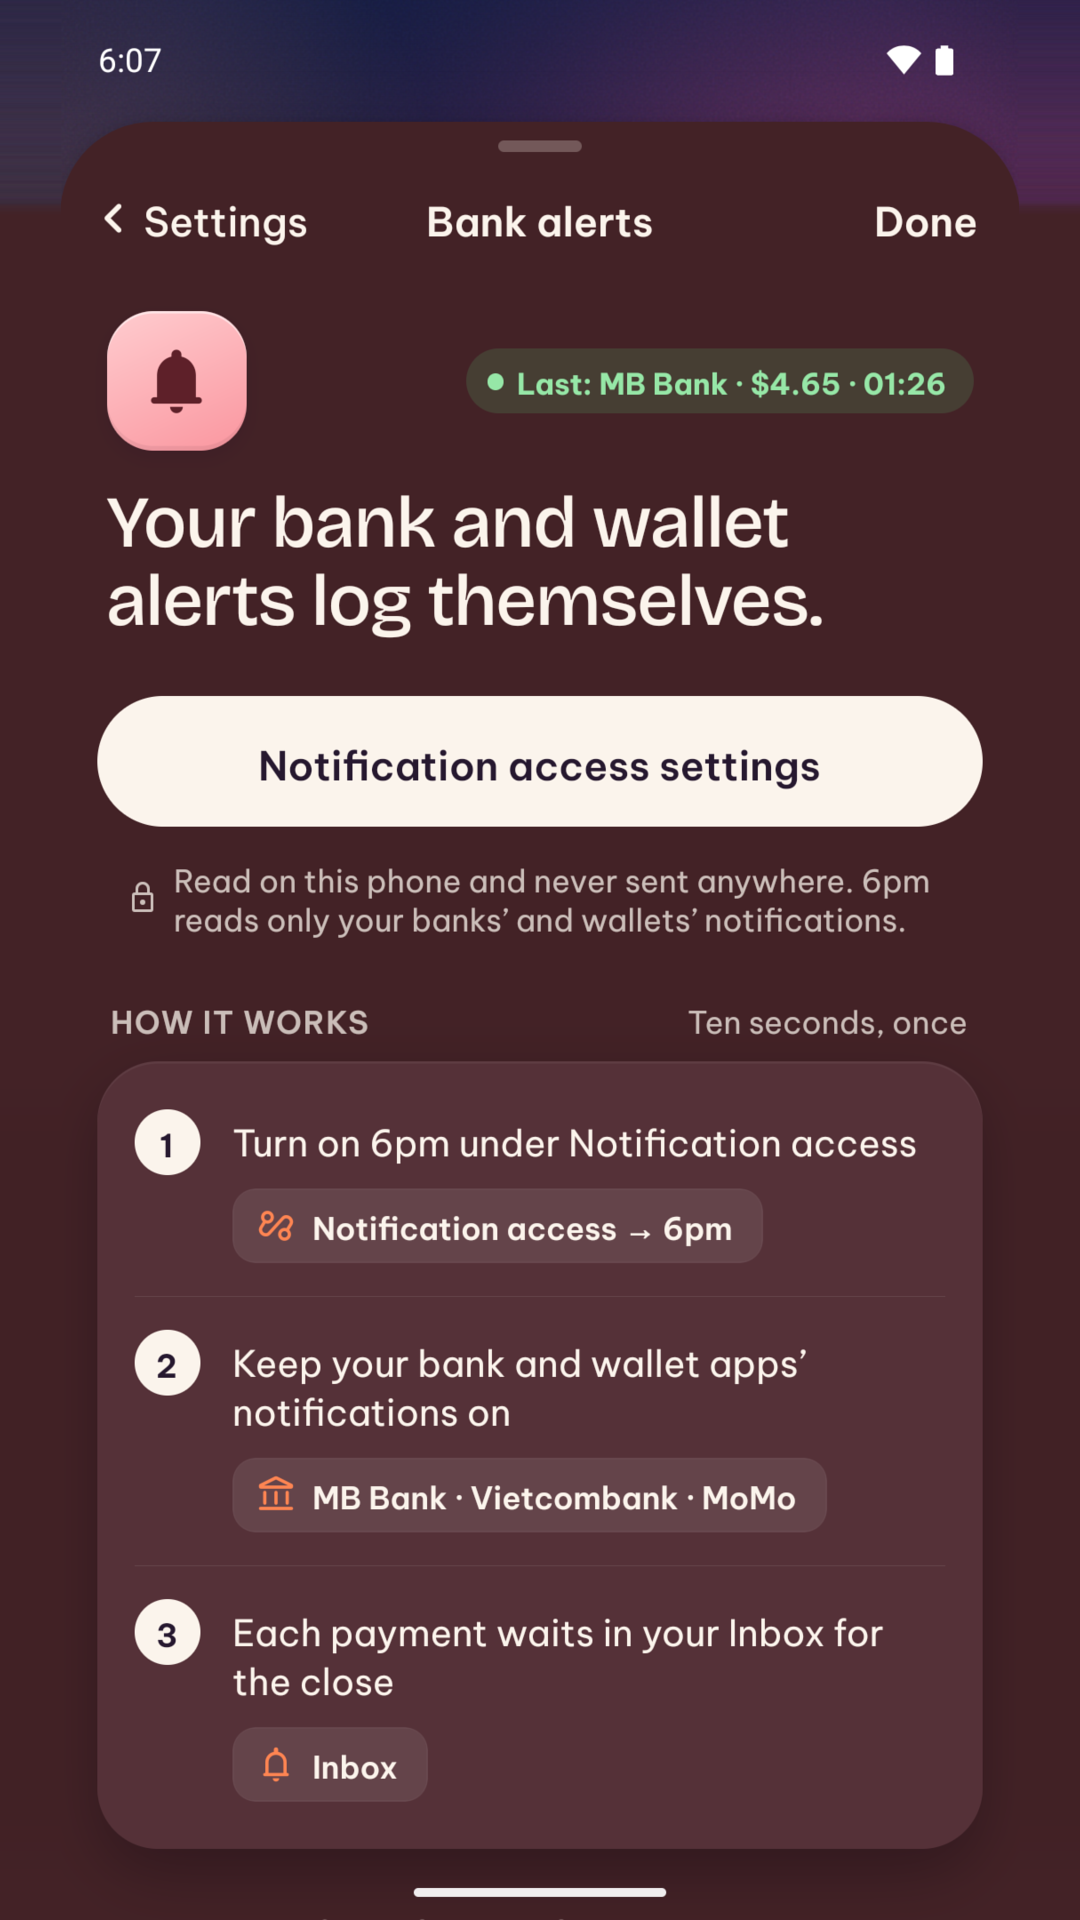
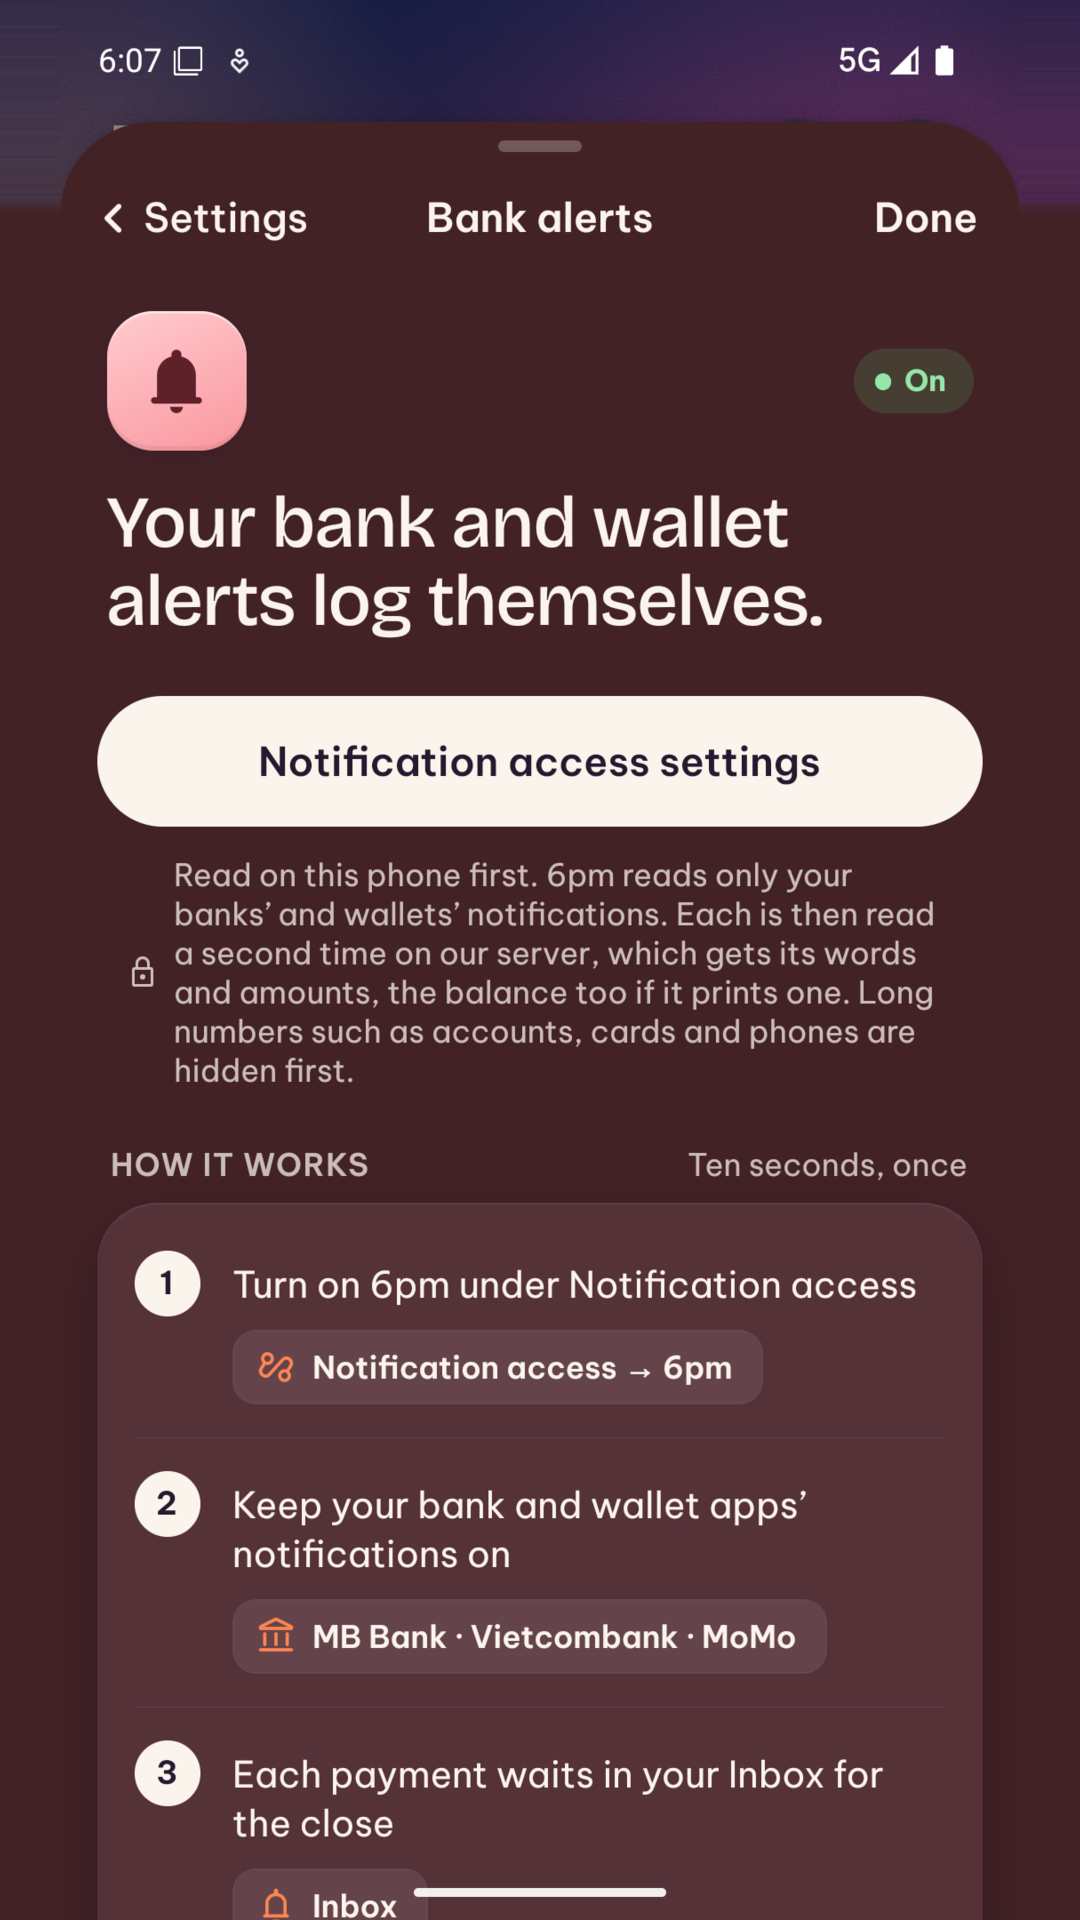
fix(android): Manage subscription opens Google Play; bank alert wording and its store screenshot (#604)
* fix(android): Manage subscription opens Google Play

RevenueCat's manage sheet is Apple's and its call throws on Android, so
the link on the Max sheet only said the store could not be reached. On
Android it opens the customer's subscription on Google Play.

* fix(android): bank alerts say where they are read, without an option Android lacks

Android has no model to keep on the phone, so its alert wording no longer
ends on what happens when AI is on the phone, in every language, and
onboarding's card drops the same clause. The Play listing's bank alerts
screenshot, which still said alerts were never sent anywhere, is retaken
from this wording in English and Vietnamese.

diff --git a/packages/i18n/src/th/android.ts b/packages/i18n/src/th/android.ts
@@ -81,7 +81,10 @@ export const thAndroid: { readonly [Key in keyof typeof enAndroid]: Entry } = {
   'capture.alerts.tip':
     'รหัส OTP การจ่ายที่ไม่สำเร็จ และโปรโมชันจะถูกข้าม รายการที่อีเมลจับได้แล้วจะไม่ถูกเพิ่มซ้ำ',
   'capture.alerts.privacy':
-    'อ่านบนเครื่องนี้ก่อน 6pm อ่านเฉพาะการแจ้งเตือนจากธนาคารและวอลเล็ตของคุณ จากนั้นเซิร์ฟเวอร์ของเราอ่านซ้ำอีกครั้ง โดยได้รับข้อความและจำนวนเงินในแจ้งเตือน รวมถึงยอดคงเหลือถ้ามีระบุไว้ เลขยาว ๆ เช่น เลขบัญชี เลขบัตร และเบอร์โทร จะถูกซ่อนก่อนส่ง ไม่ส่งเลยเมื่อ AI ทำงานบนเครื่อง',
+    'อ่านบนเครื่องนี้ก่อน 6pm อ่านเฉพาะการแจ้งเตือนจากธนาคารและวอลเล็ตของคุณ จากนั้นเซิร์ฟเวอร์ของเราอ่านซ้ำอีกครั้ง โดยได้รับข้อความและจำนวนเงินในแจ้งเตือน รวมถึงยอดคงเหลือถ้ามีระบุไว้ เลขยาว ๆ เช่น เลขบัญชี เลขบัตร และเบอร์โทร จะถูกซ่อนก่อนส่ง',
+  // Android has no model to keep on the phone, so the step's card does not offer that.
+  'onboarding.catch.alerts.body':
+    'แจ้งเตือนจากธนาคารและวอลเล็ตบันทึกเงินที่เคลื่อนไหวให้เอง อ่านบนเครื่องนี้ก่อน แล้วเซิร์ฟเวอร์ของเราอ่านซ้ำอีกครั้ง',
   'capture.alerts.actionAdd': 'อนุญาตการเข้าถึงการแจ้งเตือน',
   'capture.alerts.actionOpen': 'ตั้งค่าการเข้าถึงการแจ้งเตือน',
 

diff --git a/packages/i18n/src/ja/android.ts b/packages/i18n/src/ja/android.ts
@@ -90,7 +90,10 @@ export const jaAndroid: { readonly [Key in keyof typeof enAndroid]: Entry } = {
   'capture.alerts.tip':
     '認証コード、失敗した支払い、プロモーションはスキップします。メールでキャッチ済みの支払いは二重に追加されません。',
   'capture.alerts.privacy':
-    'まずこのスマホの中で読み取ります。6pmが読むのは銀行とウォレットの通知だけです。そのあとサーバーでもう一度読みます。送るのは通知の文面と金額で、残高が書かれていればそれも含みます。口座番号・カード番号・電話番号などの長い番号は先に伏せます。AIを端末内にしているときは送りません。',
+    'まずこのスマホの中で読み取ります。6pmが読むのは銀行とウォレットの通知だけです。そのあとサーバーでもう一度読みます。送るのは通知の文面と金額で、残高が書かれていればそれも含みます。口座番号・カード番号・電話番号などの長い番号は先に伏せます。',
+  // Android has no model to keep on the phone, so the step's card does not offer that.
+  'onboarding.catch.alerts.body':
+    '銀行やウォレットの通知から、動いたお金を記録します。このスマホの中で読み取り、そのあとサーバーでもう一度読みます。',
   'capture.alerts.actionAdd': '通知へのアクセスを許可',
   'capture.alerts.actionOpen': '通知へのアクセスの設定',
 

diff --git a/packages/i18n/src/vi-android.ts b/packages/i18n/src/vi-android.ts
@@ -81,7 +81,10 @@ export const viAndroid: { readonly [Key in keyof typeof enAndroid]: Entry } = {
   'capture.alerts.tip':
     'Mã OTP, giao dịch không thành công và khuyến mãi được bỏ qua. Khoản đã bắt qua email sẽ không bị ghi hai lần.',
   'capture.alerts.privacy':
-    'Đọc trên máy trước. 6pm chỉ đọc thông báo của ngân hàng và ví của bạn. Sau đó máy chủ của 6pm đọc lại lần nữa: chữ và số tiền trong thông báo, cả số dư nếu có in. Các dãy số dài như số tài khoản, số thẻ, số điện thoại được che trước khi gửi. Không bao giờ gửi khi AI chạy trên máy.',
+    'Đọc trên máy trước. 6pm chỉ đọc thông báo của ngân hàng và ví của bạn. Sau đó máy chủ của 6pm đọc lại lần nữa: chữ và số tiền trong thông báo, cả số dư nếu có in. Các dãy số dài như số tài khoản, số thẻ, số điện thoại được che trước khi gửi.',
+  // Android has no model to keep on the phone, so the step's card does not offer that.
+  'onboarding.catch.alerts.body':
+    'Thông báo của ngân hàng và ví tự ghi lại khoản tiền đi. Đọc trên máy trước, rồi máy chủ đọc lại lần nữa.',
   'capture.alerts.actionAdd': 'Cho phép truy cập thông báo',
   'capture.alerts.actionOpen': 'Cài đặt truy cập thông báo',
 

diff --git a/apps/mobile/src/features/purchases/revenuecat-port.ts b/apps/mobile/src/features/purchases/revenuecat-port.ts
@@ -1,4 +1,5 @@
-import { Platform } from 'react-native';
+import * as Application from 'expo-application';
+import { Linking, Platform } from 'react-native';
 import Purchases, {
   PRODUCT_CATEGORY,
   type CustomerInfo,
@@ -15,6 +16,7 @@ import {
   maxPlanOfProduct,
   type MaxPlan,
   type PaidLookId,
+  playSubscriptionsUrl,
 } from './products';
 import {
   unavailablePurchases,
@@ -170,7 +172,14 @@ export function revenueCatPurchases(apiKey: string | undefined): PurchasesPort {
     },
     restore: async () => customerFromStore(await Purchases.restorePurchases()),
     customer: async () => customerFromStore(await Purchases.getCustomerInfo()),
-    manageSubscriptions: () => Purchases.showManageSubscriptions(),
+    manageSubscriptions: async () => {
+      // RevenueCat's sheet is Apple's own, and its call throws on Android. There a subscription
+      // is managed and cancelled on Google Play: the store's link for this customer, or this
+      // app's page among their subscriptions.
+      if (Platform.OS !== 'android') return Purchases.showManageSubscriptions();
+      const { managementURL } = await Purchases.getCustomerInfo();
+      await Linking.openURL(managementURL ?? playSubscriptionsUrl(Application.applicationId));
+    },
     onCustomerChange: (listener) => {
       const heard = (info: CustomerInfo) => listener(customerFromStore(info));
       Purchases.addCustomerInfoUpdateListener(heard);

diff --git a/packages/i18n/src/fr/android.ts b/packages/i18n/src/fr/android.ts
@@ -95,7 +95,10 @@ export const frAndroid: { readonly [Key in keyof typeof enAndroid]: Entry } = {
   'capture.alerts.tip':
     'Les codes, les paiements échoués et les promos sont ignorés. Un paiement déjà repéré par e-mail n’est pas ajouté deux fois.',
   'capture.alerts.privacy':
-    'Lues d’abord sur ce téléphone. 6pm ne lit que les notifications de tes banques et portefeuilles. Notre serveur lit ensuite chacune une seconde fois : il reçoit ses mots et ses montants, et le solde s’il y figure. Les longs numéros (comptes, cartes, téléphones) sont masqués avant. Jamais quand l’IA est sur ce téléphone.',
+    'Lues d’abord sur ce téléphone. 6pm ne lit que les notifications de tes banques et portefeuilles. Notre serveur lit ensuite chacune une seconde fois : il reçoit ses mots et ses montants, et le solde s’il y figure. Les longs numéros (comptes, cartes, téléphones) sont masqués avant.',
+  // Android has no model to keep on the phone, so the step's card does not offer that.
+  'onboarding.catch.alerts.body':
+    'Les alertes de ta banque et de ton portefeuille notent ce qui a bougé. Lues sur ce téléphone, puis une seconde fois sur notre serveur.',
   'capture.alerts.actionAdd': 'Autoriser l’accès aux notifications',
   'capture.alerts.actionOpen': 'Réglages d’accès aux notifications',
 

diff --git a/packages/i18n/src/de/android.ts b/packages/i18n/src/de/android.ts
@@ -93,7 +93,10 @@ export const deAndroid: { readonly [Key in keyof typeof enAndroid]: Entry } = {
   'capture.alerts.tip':
     'Codes, fehlgeschlagene Zahlungen und Werbung werden übersprungen. Eine Zahlung, die schon per E-Mail erwischt wurde, kommt nicht doppelt.',
   'capture.alerts.privacy':
-    'Zuerst auf diesem Handy gelesen. 6pm liest nur die Mitteilungen deiner Banken und Wallets. Danach liest unser Server jede ein zweites Mal: Text und Beträge der Mitteilung, auch der Kontostand, wenn er dasteht. Lange Nummern wie Konto-, Karten- und Telefonnummern werden vorher verdeckt. Nie, wenn die KI auf diesem Handy läuft.',
+    'Zuerst auf diesem Handy gelesen. 6pm liest nur die Mitteilungen deiner Banken und Wallets. Danach liest unser Server jede ein zweites Mal: Text und Beträge der Mitteilung, auch der Kontostand, wenn er dasteht. Lange Nummern wie Konto-, Karten- und Telefonnummern werden vorher verdeckt.',
+  // Android has no model to keep on the phone, so the step's card does not offer that.
+  'onboarding.catch.alerts.body':
+    'Die Mitteilungen deiner Bank und Wallet halten fest, was sich bewegt hat. Auf diesem Handy gelesen, dann noch einmal auf unserem Server.',
   'capture.alerts.actionAdd': 'Benachrichtigungszugriff erlauben',
   'capture.alerts.actionOpen': 'Einstellungen für Benachrichtigungszugriff',
 

diff --git a/packages/i18n/src/ko/android.ts b/packages/i18n/src/ko/android.ts
@@ -81,7 +81,10 @@ export const koAndroid: { readonly [Key in keyof typeof enAndroid]: Entry } = {
   'capture.alerts.tip':
     '인증번호, 실패한 결제, 프로모션은 건너뛰어요. 이메일로 이미 잡힌 결제는 두 번 들어가지 않아요.',
   'capture.alerts.privacy':
-    '먼저 이 폰 안에서 읽어요. 6pm은 은행과 지갑의 알림만 읽어요. 그다음 서버에서 한 번 더 읽어요. 알림 문구와 금액이 전송되고, 잔액이 적혀 있으면 잔액도 포함돼요. 계좌·카드·전화번호 같은 긴 번호는 먼저 가려요. AI를 휴대폰에서 실행할 때는 보내지 않아요.',
+    '먼저 이 폰 안에서 읽어요. 6pm은 은행과 지갑의 알림만 읽어요. 그다음 서버에서 한 번 더 읽어요. 알림 문구와 금액이 전송되고, 잔액이 적혀 있으면 잔액도 포함돼요. 계좌·카드·전화번호 같은 긴 번호는 먼저 가려요.',
+  // Android has no model to keep on the phone, so the step's card does not offer that.
+  'onboarding.catch.alerts.body':
+    '은행과 지갑 알림이 오간 돈을 기록해요. 이 폰 안에서 읽고, 서버에서 한 번 더 읽어요.',
   'capture.alerts.actionAdd': '알림 접근 허용',
   'capture.alerts.actionOpen': '알림 접근 설정',
 

diff --git a/packages/i18n/src/es/android.ts b/packages/i18n/src/es/android.ts
@@ -97,7 +97,10 @@ export const esAndroid: { readonly [Key in keyof typeof enAndroid]: Entry } = {
   'capture.alerts.tip':
     'Los códigos, los pagos fallidos y las promos se saltan. Un pago que ya pilló un correo no se añade dos veces.',
   'capture.alerts.privacy':
-    'Se leen primero en este teléfono. 6pm solo lee las notificaciones de tus bancos y billeteras. Después nuestro servidor lee cada una otra vez: recibe sus palabras y sus importes, y el saldo si aparece. Los números largos, como cuentas, tarjetas y teléfonos, se ocultan antes. Nunca cuando la IA está en este móvil.',
+    'Se leen primero en este teléfono. 6pm solo lee las notificaciones de tus bancos y billeteras. Después nuestro servidor lee cada una otra vez: recibe sus palabras y sus importes, y el saldo si aparece. Los números largos, como cuentas, tarjetas y teléfonos, se ocultan antes.',
+  // Android has no model to keep on the phone, so the step's card does not offer that.
+  'onboarding.catch.alerts.body':
+    'Los avisos de tu banco y tu billetera anotan lo que se movió. Se leen en este teléfono y luego otra vez en nuestro servidor.',
   'capture.alerts.actionAdd': 'Permitir acceso a notificaciones',
   'capture.alerts.actionOpen': 'Ajustes de acceso a notificaciones',
 

diff --git a/packages/i18n/src/zh-hans/android.ts b/packages/i18n/src/zh-hans/android.ts
@@ -76,7 +76,10 @@ export const zhHansAndroid: { readonly [Key in keyof typeof enAndroid]: Entry } 
   'capture.alerts.step3Chip': '收件箱',
   'capture.alerts.tip': '验证码、失败的付款和促销会被跳过。邮件已经记下的付款不会重复添加。',
   'capture.alerts.privacy':
-    '先在这台手机上读取。6pm 只读取你的银行和钱包的通知。之后我们的服务器会再读一遍：发送的是通知里的文字和金额，写了余额的话也包括余额。账号、卡号、手机号这类长号码会先隐藏。AI 在手机上运行时绝不发送。',
+    '先在这台手机上读取。6pm 只读取你的银行和钱包的通知。之后我们的服务器会再读一遍：发送的是通知里的文字和金额，写了余额的话也包括余额。账号、卡号、手机号这类长号码会先隐藏。',
+  // Android has no model to keep on the phone, so the step's card does not offer that.
+  'onboarding.catch.alerts.body':
+    '银行和钱包的通知会自动记下每笔钱的进出。先在这台手机上读取，再由我们的服务器读一遍。',
   'capture.alerts.actionAdd': '允许通知使用权',
   'capture.alerts.actionOpen': '通知使用权设置',
 

diff --git a/packages/i18n/src/id/android.ts b/packages/i18n/src/id/android.ts
@@ -88,7 +88,10 @@ export const idAndroid: { readonly [Key in keyof typeof enAndroid]: Entry } = {
   'capture.alerts.tip':
     'Kode, pembayaran gagal, dan promo dilewati. Pembayaran yang sudah tertangkap lewat email tidak ditambahkan dua kali.',
   'capture.alerts.privacy':
-    'Dibaca dulu di ponsel ini. 6pm hanya membaca notifikasi bank dan dompetmu. Setelah itu server kami membaca tiap notifikasi sekali lagi: kata-kata dan nominalnya, juga saldo kalau tercantum. Nomor panjang seperti rekening, kartu, dan telepon disamarkan dulu. Tidak pernah saat AI berjalan di ponsel ini.',
+    'Dibaca dulu di ponsel ini. 6pm hanya membaca notifikasi bank dan dompetmu. Setelah itu server kami membaca tiap notifikasi sekali lagi: kata-kata dan nominalnya, juga saldo kalau tercantum. Nomor panjang seperti rekening, kartu, dan telepon disamarkan dulu.',
+  // Android has no model to keep on the phone, so the step's card does not offer that.
+  'onboarding.catch.alerts.body':
+    'Notifikasi bank dan dompetmu mencatat uang yang bergerak. Dibaca di ponsel ini, lalu sekali lagi di server kami.',
   'capture.alerts.actionAdd': 'Izinkan akses notifikasi',
   'capture.alerts.actionOpen': 'Setelan akses notifikasi',
 

diff --git a/packages/i18n/src/en-android.ts b/packages/i18n/src/en-android.ts
@@ -93,7 +93,10 @@ export const enAndroid = {
   'capture.alerts.tip':
     'Codes, failed payments and promos are skipped. A payment an email already caught isn’t added twice.',
   'capture.alerts.privacy':
-    'Read on this phone first. 6pm reads only your banks’ and wallets’ notifications. Each is then read a second time on our server, which gets its words and amounts, the balance too if it prints one. Long numbers such as accounts, cards and phones are hidden first. Never when AI is on this phone.',
+    'Read on this phone first. 6pm reads only your banks’ and wallets’ notifications. Each is then read a second time on our server, which gets its words and amounts, the balance too if it prints one. Long numbers such as accounts, cards and phones are hidden first.',
+  // Android has no model to keep on the phone, so the step's card does not offer that.
+  'onboarding.catch.alerts.body':
+    'Your bank and wallet notifications log what moved. They’re read on this phone, then once more on our server.',
   'capture.alerts.actionAdd': 'Allow notification access',
   'capture.alerts.actionOpen': 'Notification access settings',
 

diff --git a/apps/mobile/src/features/purchases/products.test.ts b/apps/mobile/src/features/purchases/products.test.ts
@@ -5,6 +5,7 @@ import {
   isSubscriptionProduct,
   lookOfProduct,
   maxPlanOfProduct,
+  playSubscriptionsUrl,
   storeProductOf,
 } from './products';
 
@@ -44,5 +45,17 @@ describe('free trial periods', () => {
     expect(daysOfPeriod('')).toBeNull();
     expect(daysOfPeriod('P1W3D')).toBeNull();
     expect(daysOfPeriod('7 days')).toBeNull();
+  });
+});
+
+describe('playSubscriptionsUrl', () => {
+  it("opens this app among the customer's subscriptions on Google Play", () => {
+    expect(playSubscriptionsUrl('app.at6pm')).toBe(
+      'https://play.google.com/store/account/subscriptions?package=app.at6pm',
+    );
+  });
+
+  it('opens the subscriptions page when the package is not known', () => {
+    expect(playSubscriptionsUrl(null)).toBe('https://play.google.com/store/account/subscriptions');
   });
 });
